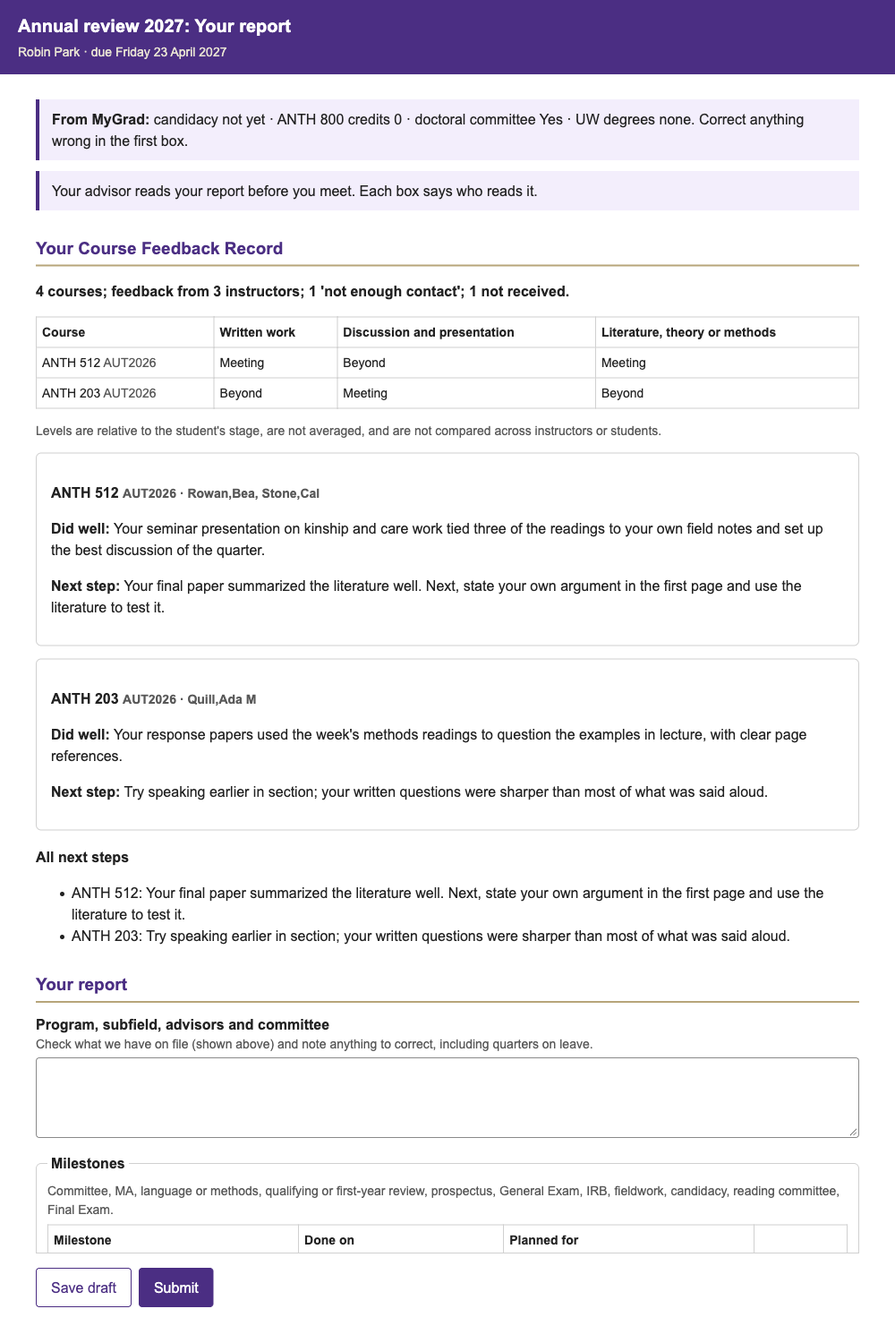
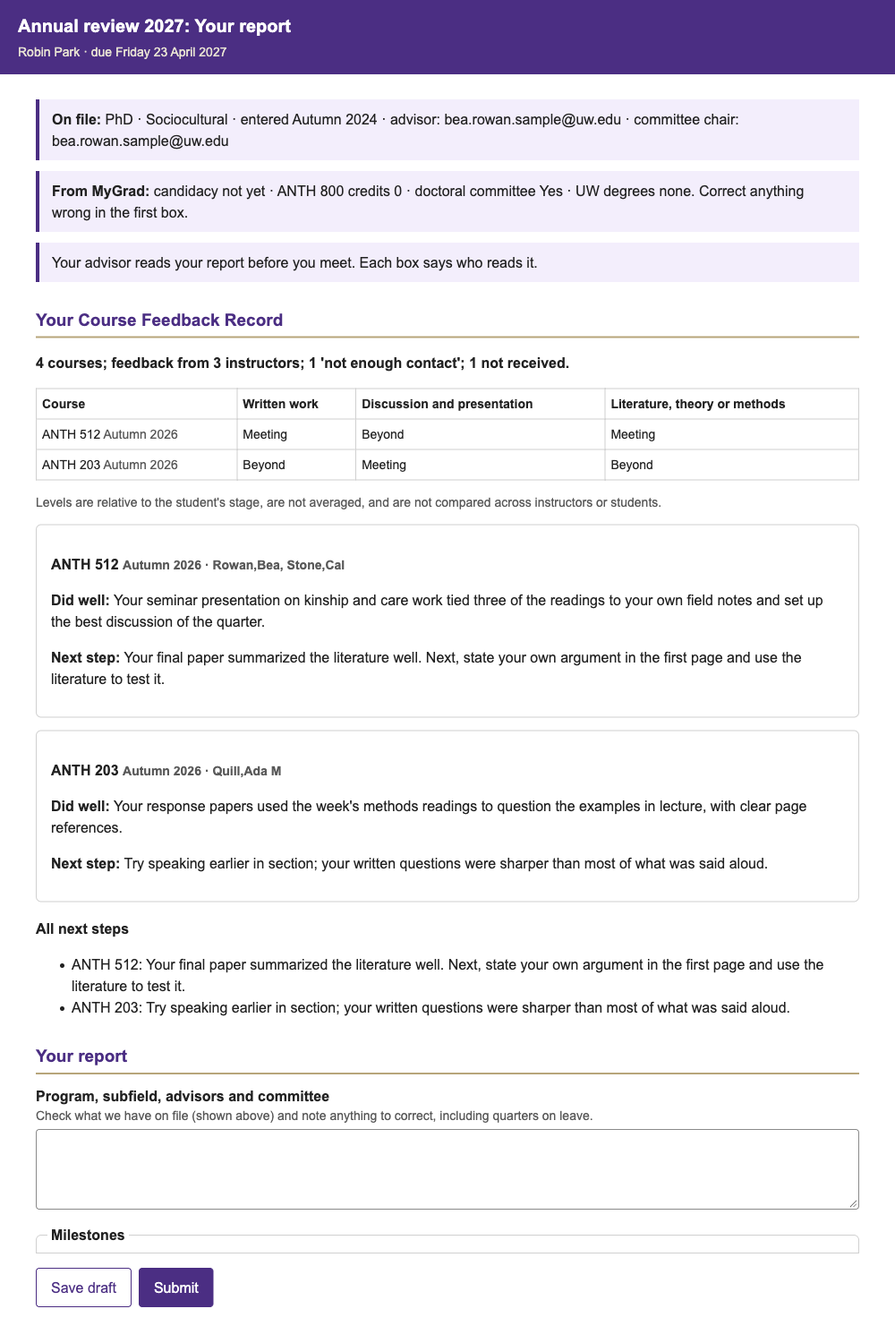
Prepare for the Autumn 2026 first run: roles, fixes, final privacy notice
Config: the administrator is agp-advisor@uw.edu and the alternate
reviewer csaulter@uw.edu; system alerts go to a new ALERT_EMAIL; the
archive folder is set; Autumn 2026 course feedback is on (decision 9).
The GPC's own account stays the owner (decision 11).

Fixes, each checked live on sample rows except where noted:
- Launch is disabled, with the reason shown, until every unsent page
  has an email for each instructor; the server applies the same rule.
- Saving an instructor's email adds it to that instructor's unsent
  pages, so no second Import is needed.
- The Roster page list follows the quarter typed in the box.
- The instructor page reloads the minutes answer; "5-15" became
  "5 to 15" because Sheets stored it as a date.
- The GPC can run the menus and only the GPC can create triggers;
  trigger calls that report the owner as the user are accepted.
- Not yet seen live: a clear error on an uninitialized spreadsheet,
  quarter names and date order in Course Feedback Records, and an
  "On file" note on the student's report.

The privacy notice is finalized against the code. The plans record
the Autumn 2026 start, the owner account, and the decision to omit
students registered under the non-ANTH side of a joint listing.

diff --git a/grad-progress-review-workflow/app/RosterPage.html b/grad-progress-review-workflow/app/RosterPage.html
@@ -25,7 +25,8 @@
 
   <h2>Instructor pages this quarter</h2>
   <div id="pages"></div>
-  <button id="launch" class="primary">Launch course feedback</button>
+  <button id="launch" class="primary" disabled>Launch course feedback</button>
+  <p id="launchNote" class="muted"></p>
 
   <h2>Annual review: MyGrad data</h2>
   <p class="muted">Milestones, leave, GPA, candidacy, ANTH 800 credits and the year's courses for the self-report (annual review plan §9.3). Students confirm or correct every value.</p>
@@ -173,7 +174,7 @@
     var i = e.target.getAttribute('data-save');
     if (i === null) return;
     call('saveInstructor', e.target.getAttribute('data-name'), document.getElementById('em' + i).value, document.getElementById('ap' + i).value)
-      .then(function () { e.target.textContent = 'Saved'; e.target.disabled = true; }).catch(function (er) { say(er.message, 'bad'); });
+      .then(function () { e.target.textContent = 'Saved'; e.target.disabled = true; loadPages(); }).catch(function (er) { say(er.message, 'bad'); });
   });
 
   document.getElementById('preview').onclick = function () {
@@ -190,10 +191,18 @@
   };
 
   function loadPages() {
-    call('rosterPageData').then(function (c) {
+    call('rosterPageData', q()).then(function (c) {
       CFG = c;
       if (!document.getElementById('quarter').value) document.getElementById('quarter').value = c.quarter || '';
-      var rows = c.requests.filter(function (r) { return !q() || true; });
+      var rows = c.requests;
+      var waiting = rows.filter(function (r) { return r.status === 'NOT_STARTED'; });
+      /* A page is missing someone when it lists fewer emails than instructor names (the server applies the same rule). */
+      var count = function (v, sep) { return String(v || '').split(sep).map(function (x) { return x.trim(); }).filter(Boolean).length; };
+      var noEmail = waiting.filter(function (r) { return count(r.emails, ',') < Math.max(1, count(r.instructors, '/')); });
+      document.getElementById('launch').disabled = !waiting.length || noEmail.length > 0;
+      document.getElementById('launchNote').textContent = !waiting.length ? 'No pages waiting to be sent for ' + c.quarterLabel + '.'
+        : noEmail.length ? 'Launch is disabled: ' + noEmail.length + ' page(s) are missing an instructor email. Add the emails above; they apply at once.'
+        : waiting.length + ' page(s) ready to send for ' + c.quarterLabel + '.';
       document.getElementById('pages').innerHTML = rows.length ? '<table class="rows"><thead><tr><th>Offering</th><th>Instructors</th><th>Status</th><th>Action</th></tr></thead><tbody>' +
         rows.map(function (r) {
           var act = r.status === 'NOT_MY_COURSE'
@@ -209,6 +218,7 @@
     if (re) call('reissueRequest', re, document.getElementById('re_' + re).value).then(function () { say('Page re-sent.', 'ok'); loadPages(); }).catch(function (er) { say(er.message, 'bad'); });
   });
 
+  document.getElementById('quarter').addEventListener('change', loadPages);
   loadPages();
 </script>
 </body>

diff --git a/grad-progress-review-workflow/app/Common.html b/grad-progress-review-workflow/app/Common.html
@@ -102,14 +102,14 @@
     if (!rec) return '<p class="muted">No course feedback has been released yet.</p>';
     var h = '<p><strong>' + esc(rec.coverage) + '</strong></p>' + (rec.thinNote ? '<p class="muted">' + esc(rec.thinNote) + '</p>' : '');
     if (rec.grid && rec.grid.length) h += '<table class="rows"><thead><tr><th>Course</th><th>Written work</th><th>Discussion and presentation</th><th>Literature, theory or methods</th></tr></thead><tbody>' +
-      rec.grid.map(function (g) { return '<tr><td>' + esc(g.course) + ' <span class="muted">' + esc(g.quarter) + '</span></td><td>' + esc(g.written) + '</td><td>' + esc(g.discussion) + '</td><td>' + esc(g.literature) + '</td></tr>'; }).join('') +
+      rec.grid.map(function (g) { return '<tr><td>' + esc(g.course) + ' <span class="muted">' + esc(g.quarterLabel || g.quarter) + '</span></td><td>' + esc(g.written) + '</td><td>' + esc(g.discussion) + '</td><td>' + esc(g.literature) + '</td></tr>'; }).join('') +
       '</tbody></table><p class="muted">Levels are relative to the student\'s stage, are not averaged, and are not compared across instructors or students.</p>';
     (rec.comments || []).forEach(function (c) {
-      h += '<div class="card"><h3>' + esc(c.course) + ' <span class="muted">' + esc(c.quarter) + ' · ' + esc(c.instructors) + '</span></h3><p><strong>Did well:</strong> ' + nl2br(c.strength) +
+      h += '<div class="card"><h3>' + esc(c.course) + ' <span class="muted">' + esc(c.quarterLabel || c.quarter) + ' · ' + esc(c.instructors) + '</span></h3><p><strong>Did well:</strong> ' + nl2br(c.strength) +
         '</p><p><strong>Next step:</strong> ' + nl2br(c.nextStep) + '</p>' + (c.gpcNote ? '<p class="muted"><strong>Note from the GPC:</strong> ' + nl2br(c.gpcNote) + '</p>' : '') + '</div>';
     });
     if (rec.nextSteps && rec.nextSteps.length) h += '<h3>All next steps</h3><ul>' + rec.nextSteps.map(function (n) { return '<li>' + esc(n.course) + ': ' + esc(n.nextStep) + '</li>'; }).join('') + '</ul>';
-    if (rec.flags && rec.flags.length) h += '<h3>Follow-up conversations</h3><ul>' + rec.flags.map(function (f) { return '<li>' + esc(f.quarter) + ': ' + esc(f.outcome) + (f.contactDate ? ' (' + esc(f.contactDate) + ')' : '') + '</li>'; }).join('') + '</ul>';
+    if (rec.flags && rec.flags.length) h += '<h3>Follow-up conversations</h3><ul>' + rec.flags.map(function (f) { return '<li>' + esc(f.quarterLabel || f.quarter) + ': ' + esc(f.outcome) + (f.contactDate ? ' (' + esc(f.contactDate) + ')' : '') + '</li>'; }).join('') + '</ul>';
     if (rec.synthesis) h += '<div class="note"><strong>From the GPC:</strong> ' + nl2br(rec.synthesis) + '</div>';
     return h;
   }

diff --git a/grad-progress-review-workflow/app/tests/screenshots/build.js b/grad-progress-review-workflow/app/tests/screenshots/build.js
@@ -163,7 +163,7 @@ function pick(c) { return { contact: c.contact, written: c.written, discussion: 
 /* ---------- Instructor page ---------- */
 const feedbackPage = {
   offering: 'ANTH 512', quarter: run(`quarterLabel_('${Q}')`), due: run(`dateLong_('${win.due}')`), closed: false, readOnlyLock: false, lockOwner: '',
-  levels: CF_LEVELS, signature: '', status: 'DRAFT',
+  levels: CF_LEVELS, signature: '', minutes: '', status: 'DRAFT',
   students: [
     { email: 'robin.park.sample@uw.edu', name: 'Robin Park', program: 'PhD', subfield: 'Sociocultural', year: run(`yearInProgram_('AUT2024', '${Q}')`), course: 'ANTH 512', isAdvisee: true,
       contact: 'enough', ...pick(parkComments[0]), followup: false, followupNote: '', status: 'DRAFT', returnedReason: '', editable: true },
@@ -191,7 +191,9 @@ const reviewStudent = {
     lastGoals: [{ goal: 'Form the doctoral committee', status: '', comment: '' }],
     actionItemsProgress: [{ action: 'Take a qualitative methods course', status: '', note: '' }]
   },
-  development: {}, courseFeedback: recStudent
+  development: {}, courseFeedback: recStudent,
+  onFile: { program: 'PhD', subfield: 'Sociocultural', advisors: ['bea.rowan.sample@uw.edu'], chair: 'bea.rowan.sample@uw.edu', gsr: '',
+            entryQuarter: run("quarterLabel_('AUT2024')"), leaveEnds: '' }
 };
 
 /* ---------- Student's course feedback page ---------- */

diff --git a/grad-progress-review-workflow/app/Index.html b/grad-progress-review-workflow/app/Index.html
@@ -111,6 +111,10 @@
         if (!draft.coursework && pre.coursework) draft.coursework = pre.coursework;
         if (!draft.lastGoals && pre.lastGoals) draft.lastGoals = pre.lastGoals;
         if (!draft.actionItemsProgress && pre.actionItemsProgress) draft.actionItemsProgress = pre.actionItemsProgress;
+        var of = R.onFile || {};
+        h += '<div class="note"><strong>On file:</strong> ' + esc(of.program || '') + (of.subfield ? ' · ' + esc(of.subfield) : '') +
+          (of.entryQuarter ? ' · entered ' + esc(of.entryQuarter) : '') + ' · advisor' + ((of.advisors || []).length === 1 ? '' : 's') + ': ' + esc((of.advisors || []).join(', ') || 'none recorded') +
+          ' · committee chair: ' + esc(of.chair || 'none recorded') + (of.gsr ? ' · GSR: ' + esc(of.gsr) : '') + (of.leaveEnds ? ' · on leave until ' + esc(of.leaveEnds) : '') + '</div>';
         var m = pre.mygrad || {};
         h += '<div class="note"><strong>From MyGrad:</strong> candidacy ' + esc(m.candidacyDate || 'not yet') + ' · ANTH 800 credits ' + esc(m.anth800Credits || 0) +
           ' · doctoral committee ' + esc(m.hasDocComm || '?') + ' · UW degrees ' + esc(m.uwDegrees || 'none') + '. Correct anything wrong in the first box.</div>';

diff --git a/grad-progress-review-workflow/app/FeedbackForm.html b/grad-progress-review-workflow/app/FeedbackForm.html
@@ -51,7 +51,8 @@
     h += guidance() + '<p class="muted">About 30 seconds for a student you could not comment on, and 3 to 4 minutes for one you could.</p>';
     h += page.students.map(studentBlock).join('');
     h += '<section class="card"><label for="sig">Type your name to sign</label><input type="text" id="sig" value="' + esc(page.signature) + '">' +
-      '<label for="mins">How long did this take? <span class="help">Optional, for the pilot</span></label><select id="mins"><option value="">Choose…</option><option>under 5</option><option>5-15</option><option>over 15</option></select></section>';
+      '<label for="mins">How long did this take? <span class="help">Optional, for the pilot</span></label><select id="mins"><option value="">Choose…</option>' +
+      ['under 5', '5 to 15', 'over 15'].map(function (m) { return '<option' + (m === page.minutes ? ' selected' : '') + '>' + m + '</option>'; }).join('') + '</select></section>';
     h += '<div class="status"><button id="save">Save draft</button><button id="submit" class="primary">Submit</button><div id="msg" role="status" aria-live="polite"></div></div>';
     document.getElementById('main').innerHTML = h;
     var main = document.getElementById('main');

diff --git a/grad-progress-review-workflow/app/tests/run.js b/grad-progress-review-workflow/app/tests/run.js
@@ -284,3 +284,12 @@ test('21. the PDF model never contains a GPC-only or development field', () => {
 test('24. metrics suppress every count under 5', () => {
   deq(JSON.parse(JSON.stringify(ctx.suppressSmallCounts_({ a: 0, b: 1, c: 4, d: 5, e: 12 }))), { a: 0, b: '<5', c: '<5', d: 5, e: 12 });
 });
+
+test('records list courses in date order and label quarters for display', () => {
+  const c = (course, quarter) => ({ course, quarter, instructorNames: ['Quill,Ada M'], contact: 'enough', written: 'Meeting', discussion: 'Meeting',
+    literature: 'Meeting', strength: 's', nextStep: 'n', status: 'RELEASED', releasedAt: '2027-04-09' });
+  const rec = ctx.buildFeedbackRecord_([], [c('ANTH 3', 'WIN2027'), c('ANTH 1', 'AUT2026'), c('ANTH 4', 'SPR2027')], [], 'student', '');
+  deq(rec.grid.map(g => g.course), ['ANTH 1', 'ANTH 3', 'ANTH 4']);
+  deq(rec.comments.map(g => g.quarterLabel), ['Autumn 2026', 'Winter 2027', 'Spring 2027']);
+  assert.ok(ctx.quarterOrder_('WIN2027') < ctx.quarterOrder_('SPR2027') && ctx.quarterOrder_('SPR2027') < ctx.quarterOrder_('AUT2027'));
+});

diff --git a/grad-progress-review-workflow/README.md b/grad-progress-review-workflow/README.md
@@ -25,38 +25,48 @@ It is a sibling of [`ta-evaluation-workflow`](../ta-evaluation-workflow) and reu
 
 ## Status (18 November 2026)
 
+**First use: Autumn 2026 course feedback** (decision 9, changed 18 Nov 2026). Instructor pages open Monday 14 December 2026, reminders go out on 23 December and 5 January, pages are due Friday 8 January 2027, and comments are released Friday 15 January 2027. The annual review starts in spring 2027.
+
+**Before Monday 14 December 2026:**
+
+1. Load the real students: on the Roster page, **Get MyGrad data** (setup step 9). On 18 Nov 2026 MyGrad refused connections from the deploying computer, so this is not done yet.
+2. Fill in `Advisor_Emails`, `Chair_Email` and `Subfield` in `Students`. Recusal needs them, because the GPC's own advisees and the students whose committee the GPC chairs go to the alternate reviewer. So does the advisor's option on instructor pages.
+3. Import the Autumn 2026 roster and enter the email of every instructor the CEC catalog does not list (course feedback steps below).
+4. Test with a second UW account: an instructor who is not the administrator should open their own page and be refused another's.
+5. The GPC creates the triggers (setup step 10).
+6. Monday 14 December: re-import, then **Launch course feedback** on the Roster page.
+
 **Built:** every server module and page in build-spec §2, both bookmarklet bridges, the 24 email templates (CF-1 to CF-11, AR-1 to AR-13), the daily trigger, and metrics.
 
 **Verified:**
 
-- 26 Node tests pass, covering the pure-logic acceptance tests in build-spec §4 (1 to 6, 8, 10, 11, 13, 16, 20 to 22, 24, and the flow part of 19) and the calendar dates both plans state.
+- 27 Node tests pass, covering the pure-logic acceptance tests in build-spec §4 (1 to 6, 8, 10, 11, 13, 16, 20 to 22, 24, and the flow part of 19), the calendar dates both plans state, and the date order of Course Feedback Records.
 - R3: an Apps Script page receives `postMessage` from MyGrad and Time Schedule tabs (course-feedback plan §4.5).
 - The Time Schedule parser on the real Autumn 2026 ANTH, ARCHY, BIO A and LING pages, and the joint-listing merge on real pairs.
 - How MyGrad shows current, next-quarter and withdrawn courses (all 41 transcripts, 1,329 rows), and that MyGrad's GPA follows the Graduate School's definition (34 of 34).
 - Both bookmarklet bridges, run live on 18 Nov 2026 with only counts printed. MyGrad registrations: 41 students, 62 Autumn 2026 rows, no grades sent. MyGrad prefill: 41 students, entry and leave quarters read correctly (MyGrad writes winter as `WTR`). Time Schedule: 98 sections for ANTH, ARCHY and BIO A, and CEC appointment types for 25 of 39 instructors; the other 14 are not in the catalog, so the administrator confirms them.
 - Every server file parses, every helper resolves, and every page's script parses and calls only public server functions.
 
-**Run live (18 Nov 2026, build deployment, invented sample data):** the Roster page's CSV uploads, Preview and Import; saving instructor emails; Launch, which sent three CF-1 emails (all to the owner's address); the instructor page opened from the CF-1 link and submitted; and the GPC's Review and Release page. The `Students` and `Enrollments` sheets match acceptance test 7 for the fields the sample filled (GPA, committee flags, ANTH 800 credits, courses; no grade column in `Enrollments`). Leave and candidacy were blank in the sample, so those two are untested.
+**Run live (18 Nov 2026, invented sample data, since deleted):** the Roster page's CSV uploads, Preview and Import; saving instructor emails; Launch, which sent three CF-1 emails (all to the owner's address); the instructor page opened from the CF-1 link and submitted; and the GPC's Review and Release page. The `Students` and `Enrollments` sheets matched acceptance test 7 for the fields the sample filled. These fixes were then checked live on the sample rows:
 
-**Not yet verified:** acceptance tests 9, 12, 14, 15, 17, 18 and 23, and the annual review pages, which need a launched cycle and student or advisor accounts. Releasing comments was not run, because it emails the students. The bookmarklet changes are on the `grad-review-build` branch; the loaders in the main [readme](../readme.md) fetch from `main`, so they take effect after merging.
+- **Launch** is disabled, with the reason shown, while any unsent page lists fewer instructor emails than instructor names.
+- Saving an instructor's email adds it at once to that instructor's unsent pages, so no second Import is needed. Pages already sent are left alone.
+- The page list follows the quarter typed in the box.
+- The instructor page reloads the saved "How long did this take?" answer. The option "5-15" became "5 to 15", because Google Sheets stored "5-15" as a date.
 
-**Known issues** (found in the live run, not yet fixed):
+**Not yet verified:** acceptance tests 9, 12, 14, 15, 17, 18 and 23, and the annual review pages, which need a launched cycle and student or advisor accounts. Releasing comments has not been run, because it emails the students.
 
-- The Roster page says "Launch stays disabled" while instructors lack an email, but the button stays enabled; the server refuses the launch with an error instead.
-- Saving a missing instructor email updates the `Instructors` sheet only. Click **Import** again before **Launch**, so the existing instructor pages pick up the address.
-- The "Instructor pages this quarter" list shows the current calendar quarter, whatever quarter is typed in the box.
-- Right after Import, the page list can show blank emails until the page is reloaded.
-- The instructor page does not reload the saved "How long did this take?" answer.
-- On a spreadsheet that has not been initialized, the Roster upload fails with "The number of columns in the range must be at least 1." Run Initialize first (setup step 7).
-- Course Feedback Records print raw quarter codes such as `AUT2026`.
-- The student report's first box says "shown above", but the page does not show the program, subfield or advisors.
-- A student registered under the non-ANTH side of a joint listing (for example LING 203 A with ANTH 203 A) is excluded as "outside the departments in this phase." Decide whether that is intended.
+**Fixed in the code but not yet seen live:** a clear error ("run Graduate review → Initialize") on a spreadsheet without header rows; quarter names such as "Autumn 2026" instead of `AUT2026` in Course Feedback Records, which now list courses in date order; and an "On file" note on the student's report showing the program, subfield, advisors and chair that its first box asks the student to check.
+
+**Known issue:** once, right after Import, the page list showed blank instructor emails until the page was reloaded. Import now commits its writes before it returns, and the problem did not recur, but the cause is not confirmed.
+
+**Decided:** a student registered under the non-ANTH side of a joint listing (for example LING 203 A, joint with ANTH 203 A) is not asked about in phase 1, because LING is outside the phase-1 departments.
 
 ## Screenshots {#screenshots}
 
-**Live.** These three come from the build deployment on 18 Nov 2026, signed in as the owner, who is also set as administrator and GPC. The data are invented: three students and the instructors in the Time Schedule test fixture, uploaded through the Roster page's CSV fallback.
+**Live.** These three come from the deployed app on 18 Nov 2026, signed in as the owner, who was then also set as administrator. The data are invented: three students and the instructors in the Time Schedule test fixture, uploaded through the Roster page's CSV fallback.
 
-The Roster page after the CSV uploads and Preview for Winter 2027. The list under "Instructor pages this quarter" shows the Autumn 2026 sample pages, because that list follows the calendar quarter (see Known issues).
+The Roster page after the CSV uploads and Preview for Winter 2027. This image was taken before the fix that makes the list under "Instructor pages this quarter" follow the quarter box, so the list still shows the Autumn 2026 sample pages.
 
 ![Live Roster page with a join preview](screenshots/live-roster-preview.png)
 
@@ -84,11 +94,13 @@ The student's course feedback for one quarter.
 
 ## Setup
 
-The build copy described here was set up on 18 Nov 2026 and runs. For production, repeat these steps under the department account (step 1).
+The system described here was set up on 18 Nov 2026 and runs. These are the steps for setting it up again, for example under a new owner.
 
 ### 1. Accounts
 
-The plan calls for a department account that owns the spreadsheets, the script and the Drive folder (annual review plan, decision 11). Every email the system sends goes out from the owner's Gmail, and the web app runs as the owner, so the owner's account is the one that matters. The build copy is owned by a personal UW account. Move to the department account before launch by repeating steps 2 to 9 under that account.
+The GPC's own UW account owns the script, both spreadsheets, the archive folder and the triggers. The department chose this on 18 Nov 2026 in place of a department account (annual review plan, decision 11). The owner's account matters because the web app runs as the owner, and every email the web app and the triggers send goes out from the owner's Gmail.
+
+The spreadsheet menu is different: a menu item runs as, and sends email from, whoever clicks it. So the GPC runs the menu items that send email (Launch Annual Cycle, Launch MA Check-ins, Build Feedback Records), and the Graduate Student Administrator launches course feedback from the Roster page, which runs as the owner. To hand the system to a new owner, repeat steps 2 to 10 under that account.
 
 ### 2. Tools
 
@@ -102,9 +114,9 @@ On the computer you deploy from:
 
 Create three things in the owner's Drive:
 
-- **The main spreadsheet**, with the Apps Script project bound to it (Extensions → Apps Script). The build copy is `1mdkZo7d2e2WElWzjzGFgbQUUC0dxB_1hGmGRW_QDi1Q`.
-- **The confidential spreadsheet**, an empty spreadsheet shared with no one. It keeps the self-report section marked "Only for the GPC" (annual review plan §8). The build copy is `1cHgReD-TfNRXBQzQw8RySnBp-KxxZYCJhd8awqIsz6Y`.
-- **The archive folder** for review PDFs and CV uploads. The build copy does not have one yet, so PDFs and CV uploads will fail until it is set.
+- **The main spreadsheet**, with the Apps Script project bound to it (Extensions → Apps Script). The current one is `1mdkZo7d2e2WElWzjzGFgbQUUC0dxB_1hGmGRW_QDi1Q`.
+- **The confidential spreadsheet**, an empty spreadsheet shared with no one. It keeps the self-report section marked "Only for the GPC" (annual review plan §8). The current one is `1cHgReD-TfNRXBQzQw8RySnBp-KxxZYCJhd8awqIsz6Y`.
+- **The archive folder** for review PDFs and CV uploads. The current one is `1OJjLmo2DU12-v1lh87-4X07LHvpGvfK6` ("Anthropology Graduate Review archive").
 
 Put the project's script ID in `app/.clasp.json`.
 
@@ -118,15 +130,16 @@ Edit [`app/Config.gs`](app/Config.gs). The values at the top:
 | `CONFIDENTIAL_SPREADSHEET_ID` | The confidential spreadsheet's ID. Initialize stops with an error without it |
 | `ARCHIVE_FOLDER_ID` | The archive folder's ID |
 | `APP_URL` | The web app URL from step 5. Every email link uses it |
-| `ADMIN_EMAIL` | The Graduate Student Administrator, who runs the menus and the Roster page |
+| `ADMIN_EMAIL` | The Graduate Student Administrator (`agp-advisor@uw.edu`), who runs the Roster page and gets the "not my course" notices |
 | `GPC_EMAIL`, `GPC_NAME` | The Graduate Program Coordinator. `GPC_NAME` signs every email, and replies go to `GPC_EMAIL` |
-| `ALTERNATE_EMAIL` | Who does the GPC's work for the GPC's own advisees (by default the department chair; decision 16) |
+| `ALTERNATE_EMAIL` | Who does the GPC's work for the GPC's own advisees and the students whose committee the GPC chairs (`csaulter@uw.edu`; decision 16) |
+| `ALERT_EMAIL` | Who maintains the system and receives its alerts (failed emails, trigger health, quotas) |
 | `SUBFIELD_COORDINATORS` | One email per subfield, for the subfield summary page |
 | `SURVEY_URL` | The anonymous post-cycle survey (annual review plan §9.5) |
 | `CYCLE_YEAR` | The spring year of the current annual cycle, for example `2027` |
-| `CF_QUARTERS_ON` | Which quarters run course feedback. Autumn 2026 and summers are off (decision 9) |
+| `CF_QUARTERS_ON` | Which quarters run course feedback. Autumn 2026 is the first; summers are off (decision 9) |
 
-The build copy sets the IDs and URL above, and uses the owner's address for both `ADMIN_EMAIL` and `GPC_EMAIL` for testing. This repository is public, so anything in `Config.gs` is public once committed. The spreadsheet IDs grant no access by themselves; only the people the files are shared with can open them.
+Every value above is set. This repository is public, so anything in `Config.gs` is public once committed, including the role email addresses. The spreadsheet and folder IDs grant no access by themselves; only the people the files are shared with can open them.
 
 ### 5. Push and deploy
 
@@ -146,7 +159,7 @@ clasp push --force
 clasp update-deployment <deployment ID>
 ```
 
-The build deployment ID is `AKfycbz5Ux91ZrBe-V8gH3aCg6DZBIHYES4_CyhcJFtTvBGOXHAFA5tM0Iy_9kzPW-Twjwxn`. The `tests/` folder is never pushed (see `.claspignore`).
+The deployment ID is `AKfycbz5Ux91ZrBe-V8gH3aCg6DZBIHYES4_CyhcJFtTvBGOXHAFA5tM0Iy_9kzPW-Twjwxn`. The `tests/` folder is never pushed (see `.claspignore`).
 
 ### 6. Approve the permissions (owner, once)
 
@@ -175,11 +188,13 @@ On the Roster page, click **Get MyGrad data** and then the MyGrad bookmarklet in
 
 ### 10. Create the triggers (last)
 
-Choose **Graduate review → Create Triggers** only when the sheets list real people. It sets a daily task at 7 a.m. Pacific and two hourly tasks, and from then on the system sends reminders by itself (see "What runs by itself" below). The build copy has not run it. Before running it on a copy that has had test data, delete the test rows from `Students`, `Enrollments`, `Instructors`, `Feedback_Requests` and `Course_Feedback`.
+Do this after steps 7 to 9, when the sheets list real people and no test rows. The GPC, signed in as the owner, chooses **Graduate review → Create Triggers**; the menu refuses anyone else, because triggers run as, and send email from, the account that creates them. It sets a daily task at 7 a.m. Pacific and two hourly tasks, and from then on the system sends reminders by itself (see "What runs by itself" below). If the sheets ever held test data, delete those rows from `Students`, `Enrollments`, `Instructors`, `Feedback_Requests` and `Course_Feedback` first.
+
+The daily task also launches the MA check-ins on the Monday of finals week, for every active MA student with an advisor in `Students`. With the triggers on, that first happens on Monday 14 December 2026.
 
 ### Trying the app with sample data
 
-To exercise the course feedback steps without real records, set `ADMIN_EMAIL` and `GPC_EMAIL` to your own address, and give every sample instructor your own address too, so every CF-1 email comes to you. An instructor page opens only for its instructors and the administrator. Then upload invented CSVs through the Roster page's **Upload CSVs instead** in the same columns the bookmarklets download, and follow the course feedback steps below. Students' addresses receive email when comments are released, so stop before **Release** unless they are real accounts you control.
+Never do this in the spreadsheet with real records: make a separate copy of the project first (steps 3 to 7). To exercise the course feedback steps without real records, set `ADMIN_EMAIL` and `GPC_EMAIL` to your own address, and give every sample instructor your own address too, so every CF-1 email comes to you. An instructor page opens only for its instructors and the administrator. Then upload invented CSVs through the Roster page's **Upload CSVs instead** in the same columns the bookmarklets download, and follow the course feedback steps below. Students' addresses receive email when comments are released, so stop before **Release** unless they are real accounts you control.
 
 ## How to Use
 
@@ -210,7 +225,7 @@ Every page checks the signed-in UW account. Opening a link sent to someone else 
 
 ### Opening the Roster page
 
-The Roster page has its own web address: the web app URL followed by `?view=roster`. For the build copy that is
+The Roster page has its own web address: the web app URL followed by `?view=roster`. Here that is
 
 <https://script.google.com/a/macros/uw.edu/s/AKfycbz5Ux91ZrBe-V8gH3aCg6DZBIHYES4_CyhcJFtTvBGOXHAFA5tM0Iy_9kzPW-Twjwxn/exec?view=roster>
 
@@ -220,7 +235,7 @@ Open it signed in with the UW account named in `ADMIN_EMAIL` or `GPC_EMAIL`. Any
 
 ### Each quarter: course feedback
 
-The calendar is in course-feedback plan §5.4. For Winter 2027: the instructor page opens Mon 15 Mar, is due Fri 2 Apr, and comments are released Fri 9 Apr.
+The calendar is in course-feedback plan §5.4. For Autumn 2026, the first quarter: the instructor page opens Mon 14 Dec 2026, is due Fri 8 Jan 2027, and comments are released Fri 15 Jan 2027. For Winter 2027: opens Mon 15 Mar, due Fri 2 Apr, released Fri 9 Apr.
 
 **Administrator, week 3 of the quarter.**
 
@@ -228,11 +243,11 @@ The calendar is in course-feedback plan §5.4. For Winter 2027: the instructor p
 2.  Click **Get MyGrad registrations**. In the MyGrad tab that opens, click the MyGrad Table Audit bookmarklet. When the Roster page shows "MyGrad: … registrations", close the tab. Grades never leave MyGrad.
 3.  Click **Get Time Schedule sections**. In the Time Schedule tab, click the Time Schedule Sections bookmarklet, wait for "Time Schedule: … sections", and close the tab.
 4.  Click **Preview**. It writes nothing. Check the counts, the excluded rows and their reasons, and the list of instructor pages.
-5.  Click **Import**. For each name under "Instructors without an email", look the person up in the UW Directory, enter their UW email, confirm the appointment if the CEC did not give one, and click **Save**. Then click **Import** again so the pages pick up the emails.
+5.  Click **Import**. For each name under "Instructors without an email", look the person up in the UW Directory, enter their UW email, confirm the appointment if the CEC did not give one, and click **Save**. The email goes straight onto that instructor's unsent pages. **Launch** stays disabled, with the reason shown below it, until every page has an email for each of its instructors.
 
 If a bookmarklet cannot send its data back, it offers a CSV download instead. Upload it under **Upload CSVs instead**.
 
-**Administrator, Monday of finals week.** Repeat steps 1 to 5 to drop withdrawals and catch instructor changes. Then click **Launch course feedback** (or **Graduate review → Launch Course Feedback…**). Each instructor gets one CF-1 email per course, with a link to their page. Co-taught courses share one page, which locks for 30 minutes while one instructor edits. The **Add** box beside a page adds a co-instructor the Time Schedule does not list.
+**Administrator, Monday of finals week.** Repeat steps 1 to 5 to drop withdrawals and catch instructor changes. Then click **Launch course feedback** on the Roster page, which sends from the owner's account. (The menu item **Graduate review → Launch Course Feedback…** does the same but sends from the account of whoever clicks it.) Each instructor gets one CF-1 email per course, with a link to their page. Co-taught courses share one page, which locks for 30 minutes while one instructor edits. The **Add** box beside a page adds a co-instructor the Time Schedule does not list.
 
 **Instructor.** Open the link in the email while signed in to UW. For each student, say whether you had enough contact to comment. If you did, give the three ratings, one thing the student did well, and the one next step. Tick "follow up" only for something the GPC should act on this quarter. Sign and click **Submit**; you can edit until the page closes. If the course is not yours, use "let us know" in the email; the administrator then re-sends the page with **Re-send** on the Roster page.
 
@@ -305,18 +320,35 @@ The `Core*.gs` files contain the plans' rules as pure functions with no Google s
 
 ## Privacy notice
 
-*Draft for review before launch (course-feedback plan §9; annual review plan §10).*
+*Last reviewed 18 November 2026. This notice covers the Anthropology Graduate Review System: the annual review of graduate students and instructor feedback on graduate students in courses.*
 
-**What the system keeps.** For each graduate student: the student's annual review report and check-ins; the advisor's evaluation; the program's rating, letter and any status action; the student's acknowledgement and response; and instructors' feedback on the student's course work, with the instructor's name. From MyGrad it keeps the student's email, entry quarter, GPA, leave dates, committee flags, UW degrees, candidacy date, ANTH 800 credits and the year's courses. No grades are collected for course feedback.
+**What the system keeps.**
+
+- *For each graduate student:* the annual review report and any check-ins; the advisor's evaluation; the program's rating, letter and any status action; the student's acknowledgement and written response; any CV the student uploads; and instructors' feedback on the student's course work, with each instructor's name.
+- *From MyGrad, for each student:* UW email, name, program, entry quarter, GPA, leave dates, committee flags, UW degrees, candidacy date, ANTH 800 credits, and the year's courses with their grades. The courses and grades fill in the coursework table of the student's own annual report. Course feedback collects no grades: instructors are never shown or asked for one.
+- *For each instructor:* name, UW email, and appointment type (faculty or graduate student) from the UW course evaluation catalog, used to decide who is asked for feedback.
+- *Logs:* who did what and when (imports, launches, submissions, releases) and which emails were sent.
 
 **Why.** To review each student's performance and progress under Graduate School Policy 3.7, and to give students feedback on their course work.
 
-**Who sees what.** The student sees everything written about them in the app, except the GPC's calibration notes, which are available on request. Advisors see their advisees' reviews and released course feedback. The committee chair receives the final PDF. Subfield coordinators and calibration meetings see a summary of course feedback only. The section of the self-report marked "Only for the GPC" is kept from the advisor and stored separately. No fellow student sees any record. Instructors see only what they wrote.
+**Who sees what in the app.**
 
-**Your rights.** These are education records under FERPA. You may inspect your records (the University responds within 45 days; WAC 478-140-022) and ask for them to be amended (WAC 478-140).
+- The **student** sees everything written about them, except the GPC's calibration notes, which the student can request.
+- **Advisors** see their advisees' reviews and released course feedback. The **committee chair** receives the final review PDF.
+- **Instructors** see their own course page, which co-instructors of the same course share. Beside each student's name the page shows only the program, subfield and year in the program. Instructors do not see other instructors' pages or anything else about the student.
+- The **GPC** reads every comment and review. For the GPC's own advisees, and students whose committee the GPC chairs, the alternate reviewer does this work instead.
+- **Subfield coordinators** and calibration meetings see a summary only: the course feedback coverage, ratings and follow-ups, without the comments, and the advisor's recommended rating.
+- The section of the self-report marked "Only for the GPC" is kept from the advisor, stored in a separate spreadsheet, and never printed in the PDF.
+- No fellow student sees any record.
+
+**Where the records are stored, and who can open them directly.** The records are kept in Google Sheets and Google Drive in the University of Washington Google Workspace, in the account of the GPC, who owns the system. The GPC can therefore open every record, including those of students the app routes to the alternate reviewer. The graduate program office (agp-advisor@uw.edu), which runs the roster and launches course feedback, can open instructors' course feedback pages from the app, and can open the main spreadsheet if it is shared with that account. Review PDFs are shared by link only with the student, the advisors, the committee chair and the reviewer.
+
+**Your rights.** These are education records under FERPA. You may inspect your records (the University responds within 45 days; WAC 478-140-022) and ask for them to be amended (WAC 478-140). Ask the GPC or the graduate program office (agp-advisor@uw.edu).
 
 **Email.** Emails never contain a review, a rating, a comment or a letter; they link to the app or to a PDF shared only with your UW account. Course feedback emails never name a student.
 
-**Retention.** The likely records series is Student Folders (6 years after the degree or last activity), pending confirmation with UW Records Management. Nothing is deleted automatically; logs are pruned after 90 days.
+**Retention.** Nothing is deleted automatically; logs of system events are deleted after 90 days. The department has not yet confirmed the records retention schedule with UW Records Management. The likely series is Student Folders (kept for 6 years after the degree or last activity), and this notice will be updated when the series is confirmed.
 
-**No AI** is used anywhere in the system, and the GPC writes any synthesis of course feedback without AI drafting.
+**No AI.** No part of the system uses AI. Nothing written about a student is read, drafted, summarized or judged by an AI tool, and the GPC writes any synthesis of course feedback without AI drafting.
+
+**Questions.** Contact the Graduate Program Coordinator or the graduate program office (agp-advisor@uw.edu) in the Department of Anthropology.

diff --git a/grad-progress-review-workflow/course-feedback-plan.md b/grad-progress-review-workflow/course-feedback-plan.md
@@ -193,6 +193,7 @@ We will get current student registration data from student transcripts in **MyGr
 | Instructor is the student's advisor | Asked, with a one-click option: "Covered in my annual review." Default: asked |
 | Co-taught course | One shared page. Whoever opens the draft holds a 30-minute editing lock; the others see it read-only, with the holder's name. Any co-instructor can submit, every name is recorded, and any of them can edit until the page closes (the same pattern as co-advisors) |
 | Joint-listed offering (e.g., ANTH 322 / RELIG 320) | Merged into one page |
+| Student registered under the other department's side of a joint listing (e.g., LING 203 A, joint with ANTH 203 A) | **Excluded in phase 1** (decided 18 Nov 2026): the curriculum the student registered under decides. Students registered under the ANTH side are asked about as usual |
 | Student dropped the course before the end of the quarter | Excluded at the finals-week refresh: the row disappears, or its grade starts with `W` |
 | Student on leave or graduated | No requests |
 | GPC teaches the course | The GPC is asked like any instructor. Recusal applies only to compiling and releasing the record of the GPC's own advisees (§6.2) |
@@ -275,7 +276,7 @@ The page opens on the **Monday of finals week**, so instructors can write while 
 
 | Quarter | Finals | Grades due (5 p.m.) | Page opens | Reminders | Due | Released to student |
 |------------|------------|------------|------------|------------|------------|------------|
-| Autumn 2026 | 12–18 Dec | Tue 22 Dec | Mon 14 Dec | 23 Dec, 5 Jan | Fri 8 Jan 2027 (decision 9: probably skipped) | — |
+| Autumn 2026 | 12–18 Dec | Tue 22 Dec | Mon 14 Dec | 23 Dec, 5 Jan | Fri 8 Jan 2027 | Fri 15 Jan 2027 (decision 9: the first quarter run) |
 | Winter 2027 | 13–19 Mar | Tue 23 Mar | Mon 15 Mar | 24 Mar, 30 Mar | **Fri 2 Apr**, the end of spring week 1 (check against the spring start date) | **Fri 9 Apr**, the end of spring week 2, the same day as the year's records |
 | Spring 2027 | 5–11 Jun | Tue 15 Jun | Mon 7 Jun | 16 Jun, 22 Jun | Fri 25 Jun | Fri 9 Jul, if the GPC or the alternate is available in summer |
 | Summer | — | — | Off by default; on only if a student takes a graded summer course the GPC wants covered | — | — | — |
@@ -409,8 +410,9 @@ These were applied to the annual review plan on 17 November 2026.
 |------------------------------------|------------------------------------|
 | Dec 2026 | Decisions 1–11 were settled on 17 November 2026; the graduate committee reviews them. **R1: built 18 Nov 2026** as the "app bridge" section of the MyGrad Table Audit bookmarklet, with a CSV fallback; no grades leave MyGrad for course feedback (a withdrawal is sent as `withdrawn:true`). Checked 17 Nov 2026: transcripts show the lecture section, and dropped courses show a `W` grade (§4.2). Optionally run the BI Portal report "[Current Student Registration Courses](https://biportal.uw.edu/details/2B7F3DF0-32AB-49F3-89A4-4F5E86C73D13)" for the same quarter as a cross-check |
 | Jan 2027 | **R3: done 17 Nov 2026, passed** (§4.5); messages work in both directions, and the curricula list is passed by message, not by URL fragment. **R2: built 18 Nov 2026** as a separate bookmarklet, [`bookmarklet-time-schedule-sections.js`](../bookmarklet-time-schedule-sections.js), not a step inside the minified workload bookmarklet; it reuses that bookmarklet's parsing approach and its CEC appointment lookup. Tested on the real Autumn 2026 ANTH, ARCHY, BIO A and LING pages, including real joint pairs. Build the `Instructors` sheet. Build the module alongside the annual review build (§12 of that plan) |
-| Early Mar 2027 | Test run with one account playing instructor, student and GPC |
-| **Winter 2027** (opens 15 Mar) | **Pilot:** ANTH, ARCHY and BIO A courses only. The first records cover Winter 2027 alone. Say so on the record ("first year: one quarter") |
+| 18 Nov 2026 | Test run in the app with one account playing administrator, instructor and GPC, on invented data (README, Status) |
+| **Autumn 2026** (opens Mon 14 Dec) | **First run:** ANTH, ARCHY and BIO A courses only (decision 9, changed 18 Nov 2026). Due Fri 8 Jan 2027; comments released Fri 15 Jan 2027 |
+| **Winter 2027** (opens 15 Mar) | Second quarter. The first records, released in spring week 2, cover Autumn 2026 and Winter 2027. Say so on the record ("first year: two quarters") |
 | Spring 2027 | Winter feedback due end of spring week 1; records released end of week 2. Spring quarter feedback (June) begins the 2027–28 feedback year |
 | Summer 2027 | Spring quarter comments released Fri 9 Jul (§5.4). Debrief: response rate, minutes, "not enough contact" share, and two questions added to the post-cycle survey: what students and advisors found useful, and whether the ratings or the comments shaped what students did next (§12) |
 | **Autumn 2027** | Phase 2: courses in other departments, with the fuller invitation |
@@ -431,7 +433,7 @@ Settled on 17 November 2026, each at its recommended default. For decision 8, th
 | 6 | Append the record to the annual review PDF? | **Yes**, so the committee chair sees it |
 | 7 | Show free-text comments at subfield calibration? | **No.** Coverage, grid and flags only; the GPC can open more for a specific student |
 | 8 | Scale wording | **Below what I'd expect at this stage / Approaching / Meeting / Beyond / Not observed.** Option, untested here: a one-line description of each level for each of the three dimensions, shown on the form. It would bring the scale closer to the independence-anchored scales that reduced rater disagreement (Crossley et al. 2011), but someone has to draft nine descriptions |
-| 9 | Run a quick Google Form for Autumn 2026 (opens 14 Dec)? | **No.** There is too little time to settle the decisions; start with Winter 2027 |
+| 9 | Run course feedback for Autumn 2026 (opens 14 Dec)? | **Yes, in the app** (changed 18 Nov 2026, when the app was ready). Autumn 2026 is the first quarter run; its comments are released Fri 15 Jan 2027 |
 | 10 | Allow instructors to edit after submitting? | **Yes, until the page closes.** After that, only through the GPC's "return for revision" route |
 | 11 | Should Sociocultural's first-year evaluation use these records? | **Yes**, as an input to its existing portfolio review |
 

diff --git a/grad-progress-review-workflow/grad-annual-review-plan.md b/grad-progress-review-workflow/grad-annual-review-plan.md
@@ -683,7 +683,7 @@ Settled on 17 November 2026. Each stands at its recommended default except decis
 | 8 | A 3-level or 4-level scale? | **3 levels** (§6). Alerts stay a separate decision by a person |
 | 9 | Should ratings affect funding priority? | **Show a flag only.** Any funding decision stays with the committee |
 | 10 | Does the committee chair, if not the advisor, get the letter? | **Yes** (Geography's practice) |
-| 11 | Which account runs the system? | **A department account**, not a personal one, so sent mail and file ownership do not sit in one faculty member's account (the same lesson as the TA system's README §9) |
+| 11 | Which account runs the system? | **The GPC's own UW account** (changed 18 Nov 2026). The original default was a department account, so that sent mail and file ownership do not sit in one faculty member's account (the TA system's README §9). Handing the system to a new GPC means repeating the setup under that account (README, Setup) |
 | 12 | When does the first cycle run? | **Spring 2027**, after the pilot |
 | 13 | Keep the advisor's "advising challenges" note? | **Keep it and show it to the student at acknowledgement.** Do not keep a note from the student that the advisor wrote about them |
 | 14 | Where does "Is advising meeting your needs?" go? | **In the GPC-only section**, plus an optional advisor-visible version |
